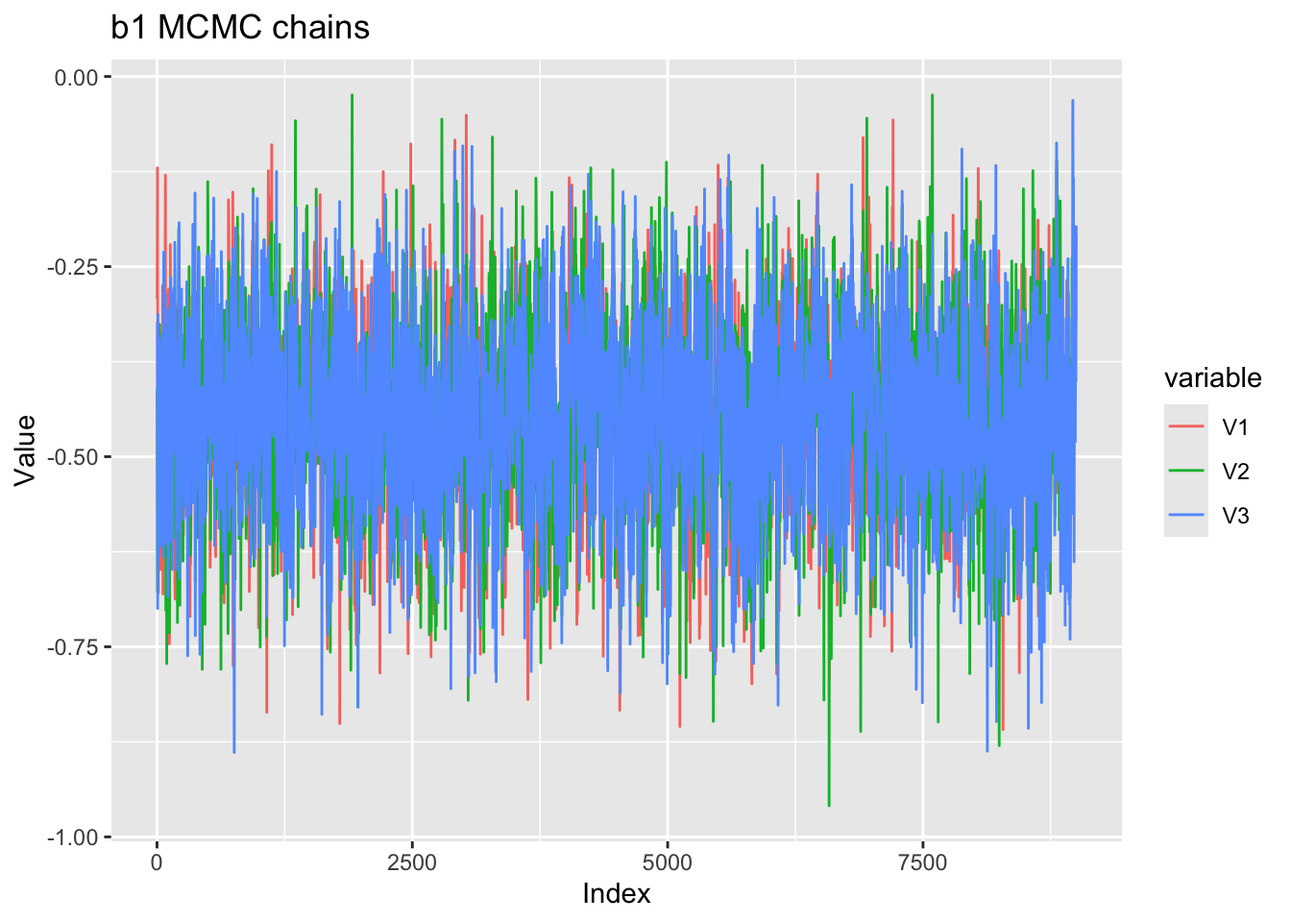
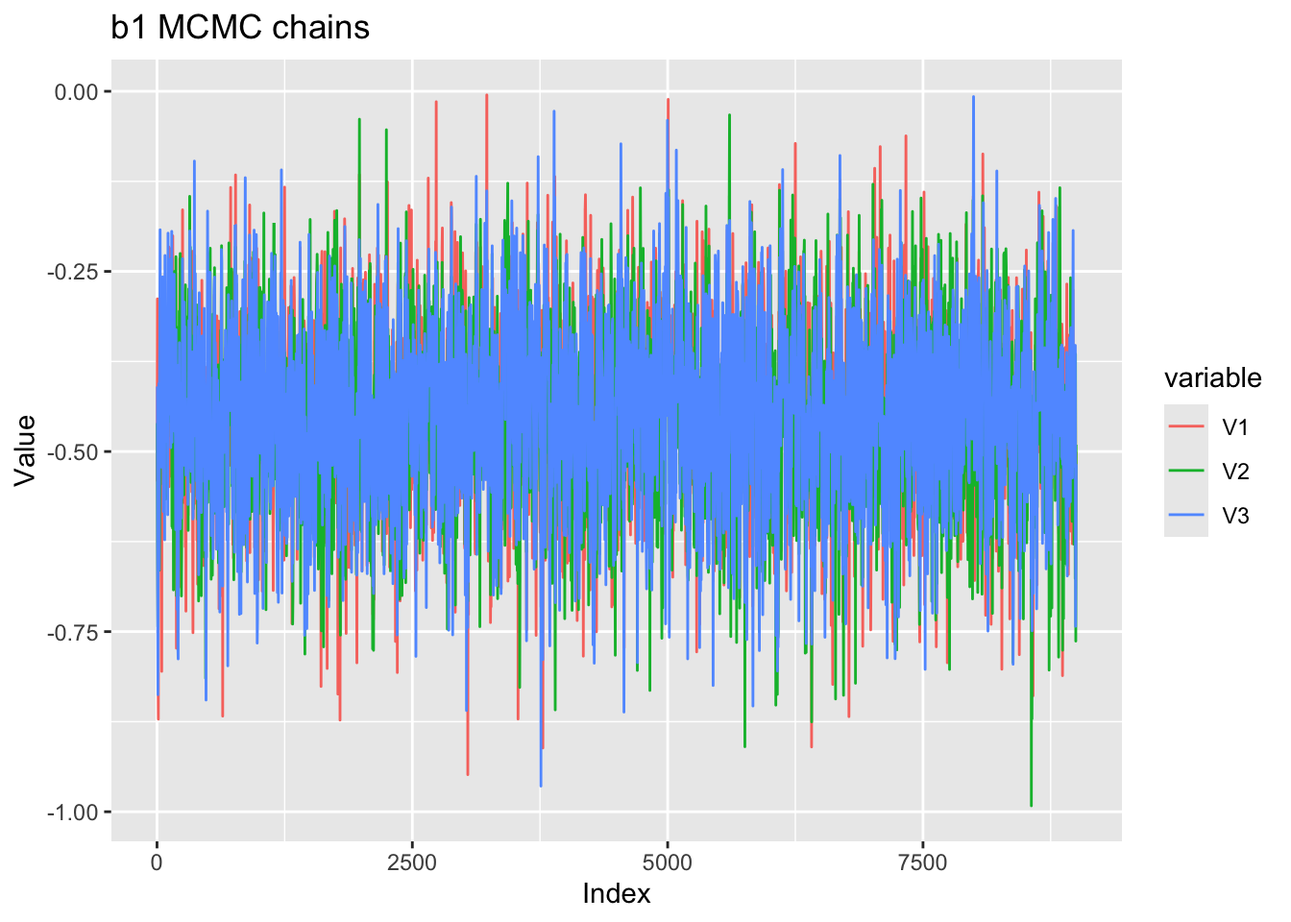
1122

diff --git a/docs/posts/IntroJuliaConnectoR.html b/docs/posts/IntroJuliaConnectoR.html
@@ -398,7 +398,7 @@ $ x4  &lt;dbl&gt; 1.063, 1.063, 1.063, 1.063, 1.063, 1.063, 0.104, -0.587, -2.00
 </details>
 <div class="cell-output cell-output-stdout">
 <pre><code>&lt;Julia object of type ExtendedRtIrtModeling.GibbsRtIrt&gt;
-ExtendedRtIrtModeling.GibbsRtIrt(ExtendedRtIrtModeling.SimConditions(300, 10, 4, 3000, 3, 1500, 1, 10, 0.5, 0.5), ExtendedRtIrtModeling.InputData4R([0 0 … 0 0; 0 0 … 0 0; … ; 0 0 … 1 0; 0 1 … 1 0], [-0.5 -0.5 … -0.5 -0.5; -0.5 -0.5 … -0.5 -0.5; … ; -0.5 -0.5 … 0.5 -0.5; -0.5 0.5 … 0.5 -0.5], [19.31727937946127 68.3745035485581 … 9.006981510434914 17.778680238058843; 46.89917102861648 54.38019363641357 … 12.085422811327593 56.71280369681312; … ; 27.194098966393437 42.182270397465956 … 25.584840292351714 119.46219960089533; 35.05786562994266 82.26946350420168 … 43.991656898689 24.754319523777408], [2.961 4.225 … 2.198 2.878; 3.848 3.996 … 2.492 4.038; … ; 3.303 3.742 … 3.242 4.783; 3.557 4.41 … 3.784 3.209], [0.0 -3.362 -0.2 1.063; 1.0 -0.081 2.347 1.063; … ; 1.0 -0.064 0.445 -0.318; 0.0 -0.449 -0.676 1.063]), Float64[], ExtendedRtIrtModeling.InputPara([0.16235512824287404 0.18055135609546943 … 0.3492408256483714 0.11597784196814588; 0.25025625437178695 0.10835972536772774 … 0.3202743885047583 0.07554055445997454; … ; 0.11753014817268771 0.8966169927064876 … 0.06283734951096978 0.05960120350407306; 0.13805622649021926 0.11629215918921716 … 0.16856989658584684 0.07150215575361361], [-1.9394855871895962; -1.3673791305201042; … ; -0.4652826392010018; -0.41109216671608634;;], [1.4659449834884102; 1.5171355856967619; … ; 1.117081944512797; 1.2382459193142332;;], [-0.19591533391551952; -0.7426854154931866; … ; -0.7553080051246679; 0.15222150851576732;;], [0.6352537638397066; 0.34894812224814076; … ; -0.3603576281594744; -0.23195192965067143;;], [3.306175488597978; 3.951899638025907; … ; 2.8909003435678935; 3.753776737854663;;], [0.3481262734782223; 0.2881839794077276; … ; 0.2784567100513588; 0.3001931398341319;;], Float64[], [0.0 0.0; -0.03829770108483886 0.178208628989446; … ; 0.19613580221262814 -0.032885840668015184; -0.07018827564408225 -0.018261723616547616], Float64[], [1.0174492346468456 -0.013020802783966823; -0.013020802783966823 0.13925799108793127]), ExtendedRtIrtModeling.OutputPost([-1.9130831721304113 0.6384789718312938 … -0.3636355184387329 0.16924614350190792; -2.5761948656574525 -0.5188814946026086 … -60.135113342664035 0.2922433070967829; … ; -2.9532664608373578 -0.7370585947022027 … -0.6432701905335532 0.18265143113973015; -2.028354044844679 -0.7094672818196492 … -0.7491230620984574 0.16100145566485585;;; -2.309826525770789 1.0090760512220447 … -69.70411939046066 1.158364764935774; -2.0415924664127596 -0.006730188845023705 … -69.68468214672296 -0.046043378487269436; … ; -2.8815636240558784 -1.3370053754570157 … -0.6810045865738172 -0.05703201817967604; -2.755482149682994 -1.4205094862785277 … -0.8216638332221514 0.35205319151891673;;; -3.564579888290525 0.13018743912139816 … -84.40784517254401 -0.1175901501011264; -2.4402182920036983 -1.1937257201579508 … -64.56447692015946 -0.05008449194057312; … ; -2.0249866987713716 -1.2577797031606262 … -0.5889843511151087 0.1419424242808915; -1.9394855871895962 -1.3673791305201042 … -0.7553080051246679 0.15222150851576732], [-0.04589032192891968 0.14310713799048927 … 1.509203427815696 1.460127550412485; 0.5401561517417781 0.21957948614267214 … 0.31758615133594925 0.2741128366576769; … ; 0.45106547985296014 0.03804630033017699 … 0.3314099907065481 0.23935211828230996; 0.5898659874230483 0.4465617507053668 … 0.3115453885076623 0.21103294415246532;;; 0.5625513032426966 0.1842455230603158 … 0.3928138459172414 0.34260917243430755; 0.5962619059523504 0.2447286812341474 … 0.2874827937940946 0.2636336168793558; … ; 0.5288101435150241 0.3440892801456695 … 0.3001474214825944 0.247639699946621; 0.2714131766393561 0.4116974957653279 … 0.2949605964575351 0.27477563433680013;;; 0.5447134643004774 0.12561770241814635 … 0.31643517897139106 0.26480642489644274; 0.565587417696131 0.31782846427641503 … 0.27796827219979314 0.25569338755411836; … ; 0.8716632943954037 0.2766548408939548 … 0.2871803432878741 0.2502746955243891; 0.6352537638397066 0.34894812224814076 … 0.2784567100513588 0.3001931398341319], [0.0 0.2271764909191659 … 0.0630377241703311 1.0795320753501887; 0.0 -0.13137140956749854 … -0.03445019185018542 0.1631787968180395; … ; 0.0 0.11831782850695353 … -0.02467476084372711 0.18008644162663284; 0.0 -0.15173760514155943 … -0.06758551791641307 0.18553004620197178;;; 0.0 0.027798664208510866 … 0.05825973278449536 0.3180298770021992; 0.0 -0.09733527323001978 … -0.016985842726239358 0.17948345349804132; … ; 0.0 0.056086526076579976 … -0.057979547653260625 0.16554355507516957; 0.0 -0.044419758878696085 … -0.042585588349441005 0.1645666049658436;;; 0.0 -0.006464948217179556 … 0.01973346388959193 0.1779470724687213; 0.0 -0.04833050205063964 … -0.07405981170013269 0.18108972215907285; … ; 0.0 -0.03050418977495822 … -0.037771801655278894 0.1438963786957279; 0.0 -0.03829770108483886 … -0.013020802783966823 0.13925799108793127], [-6514.916574145873; -4673.17363119729; … ; -4467.337338433093; -4491.282229347154;;; -5029.945651548114; -4646.151543102344; … ; -4507.976898595485; -4484.802477943669;;; -4774.119972585931; -4634.951720998296; … ; -4487.341888932805; -4501.905414007908], ExtendedRtIrtModeling.InputPara(Float64[], [-2.2965618633478506, -0.8743369709972325, -1.135792688369854, -1.299920894308992, -1.3095201246806576, -2.119062832494006, -1.5460766940530377, -0.8845164198142405, -1.392474652439669, -1.0525156460721767  …  -0.5496422662336328, -0.557684511905269, -0.28968714818519437, -0.7642103397379496, -0.4160240012714402, -0.6309310355658374, -0.8839360551467729, -0.7116255676071, -0.3755650959666923, -0.8288063047729597], [1.3923288547255621, 1.6654043101433063, 1.9004397128517432, 2.350894150889114, 1.1890173754644349, 1.7003944697805977, 1.9117772997627314, 0.8604661999436497, 1.41190515381263, 1.6554502285249029], [-0.45083538706766596, -0.8878419088605833, 0.008490588400030282, -0.029343016671800847, -0.17073350887298985, -0.695667048116863, -1.6903424800238915, -1.1432110797927515, -0.6661858887480627, 0.04266471778324491], [0.5105314294831872, 0.18696766241316087, -0.07934672070841743, 0.40407427991820943, 0.20389604361177022, 0.8005138159367575, 0.4826046559645829, 0.6305063008963736, 0.22903622340116445, -0.02449205210916162  …  -0.6122429750597529, -0.2889059796104715, -0.15303681987864978, -0.4530864272962539, -0.03699875693044017, -0.5694807734816779, -0.016626016850991115, 0.28868407688154946, -0.19220725747352652, -0.22267245249058124], [3.3100200509491446, 3.8858215431914447, 4.584515242212625, 3.8263989406679353, 3.036210252965825, 3.248418270072149, 2.9878360742181296, 3.7127766036667484, 2.8729308898521895, 3.7430426883791377], [0.37853542161261916, 0.3039044653995011, 0.29678482564071884, 0.34844864003083026, 0.333353575977551, 0.4799988010406811, 0.2655637012829562, 0.29448239037725915, 0.2966200389482421, 0.2516450785926899], Float64[], [0.0, -0.06428122725537999, 0.5326895501202278, 0.20999516516533193, -0.006933135304731751, 0.0, 0.1919405768332102, 0.0032732199931965744, -0.036166969332448416, -0.02136285577815166], Float64[], [0.9966692311131616, -0.04144550795288676, -0.04144550795288676, 0.17550528007844737])))</code></pre>
+ExtendedRtIrtModeling.GibbsRtIrt(ExtendedRtIrtModeling.SimConditions(300, 10, 4, 3000, 3, 1500, 1, 10, 0.5, 0.5), ExtendedRtIrtModeling.InputData4R([0 0 … 0 0; 0 0 … 0 0; … ; 0 0 … 1 0; 0 1 … 1 0], [-0.5 -0.5 … -0.5 -0.5; -0.5 -0.5 … -0.5 -0.5; … ; -0.5 -0.5 … 0.5 -0.5; -0.5 0.5 … 0.5 -0.5], [19.31727937946127 68.3745035485581 … 9.006981510434914 17.778680238058843; 46.89917102861648 54.38019363641357 … 12.085422811327593 56.71280369681312; … ; 27.194098966393437 42.182270397465956 … 25.584840292351714 119.46219960089533; 35.05786562994266 82.26946350420168 … 43.991656898689 24.754319523777408], [2.961 4.225 … 2.198 2.878; 3.848 3.996 … 2.492 4.038; … ; 3.303 3.742 … 3.242 4.783; 3.557 4.41 … 3.784 3.209], [0.0 -3.362 -0.2 1.063; 1.0 -0.081 2.347 1.063; … ; 1.0 -0.064 0.445 -0.318; 0.0 -0.449 -0.676 1.063]), Float64[], ExtendedRtIrtModeling.InputPara([0.03803954836290282 0.15232909667566663 … 0.05161322853812894 0.13813548640620224; 0.6820446079265877 0.34147419401485857 … 0.08950104948637522 0.14098614046303293; … ; 0.10597207519925943 0.1647379067865525 … 0.39929612168578055 0.07881275553602582; 0.029065140357117505 0.11420999068850912 … 0.067385411002555 0.08432507233276894], [-3.2940883047383913; -0.8556087208746063; … ; 0.2957471460780982; -0.5130925360110484;;], [1.1729970641986105; 1.5458803495092144; … ; 1.6853029639293666; 1.530409031452339;;], [-0.517568491848459; -0.982877174566527; … ; -0.7583810973883602; -0.09740730421271002;;], [0.5187822333228932; 0.17945796808241804; … ; -0.4089531330263851; -0.28036133076001346;;], [3.3393118348012587; 3.87644094752713; … ; 2.8577060562598415; 3.7101671096169406;;], [0.36835845733426814; 0.32471225592571945; … ; 0.2879305608202483; 0.2535185154875389;;], Float64[], [0.0 0.0; -0.13955836192391025 0.19017204916811675; … ; 0.19452561633168883 -0.02569275995793209; 0.008873056157746655 -0.020109568214501022], Float64[], [1.0320100623914066 -0.07785061758422016; -0.07785061758422016 0.16895129102317735]), ExtendedRtIrtModeling.OutputPost([-2.5316054308599174 -1.0201149676069194 … -0.5075576803546703 -0.08864269630953704; -2.385233298441571 -1.4283258309850775 … -1.4219131141778978 0.2129493136184259; … ; -1.9741175809894413 -1.0250130746899613 … -0.5718654341855209 -0.1284281480151264; -2.844235988213971 -1.316783874105525 … -0.6786711872540668 -0.05857460754134373;;; -4.6483512794741735 0.3493888705714854 … -2.4506544874705565 0.6788249924528524; -3.7301650282003234 -0.35206014753877 … -1.060147038895324 -0.022847830081273553; … ; -2.3228954038123826 -0.7633078075173486 … -0.5218305601114234 -0.006863193064532861; -2.947459210211141 -1.1136049934548102 … -0.7818335114896942 -0.07936515200090292;;; -2.8110340000021417 -0.03212862955989345 … -2.025504239319318 0.45657793306823946; -4.1596980425369825 -0.14333259949396085 … -1.1332579574632875 0.3222192608749193; … ; -2.9995248309035096 -0.5025283160730506 … -0.7183550769803037 0.0676513203886467; -3.2940883047383913 -0.8556087208746063 … -0.7583810973883602 -0.09740730421271002], [1.4408516602399948 0.3119398314847293 … 1.436388830030692 1.7594573686009332; 0.6485769988459371 0.09799817794512869 … 0.31841190001990965 0.24727987392394055; … ; 0.6627543140062743 0.062379143944078154 … 0.2865093185798355 0.24389872189259454; 0.44614964292947934 -0.0009854797366953515 … 0.28884633266179777 0.21660633195557716;;; 0.20771950271501474 0.07470008557255679 … 0.4103878498912844 0.3363959900787248; 0.4426062385974111 0.5151675445567098 … 0.29291788454958345 0.2503375597447657; … ; 0.7070645022178579 0.20368876114203885 … 0.28272533057375293 0.24136415837075093; 0.45753666379890207 -0.18874208624041255 … 0.2834510081524539 0.2551776999849949;;; 0.30915139077679943 0.11755077510470256 … 0.33693480204725546 0.2526349715282094; 0.5271674464554031 -0.03412047093349183 … 0.31415501362293397 0.23995328803270566; … ; 0.4020971899295065 0.0677768958301857 … 0.3122296334816429 0.27227850933927056; 0.5187822333228932 0.17945796808241804 … 0.2879305608202483 0.2535185154875389], [0.0 -0.0887285183553337 … -0.01884626579878293 1.1285784837010724; 0.0 -0.08011816664565659 … -0.04343663237172715 0.18452860531678966; … ; 0.0 0.008086425833789466 … -0.025520812462631465 0.1612415796308012; 0.0 -0.12264846253365731 … -0.07384019130048343 0.17262190728489224;;; 0.0 -0.03664858006607563 … 0.0067944616781861365 0.338624461155973; 0.0 -0.1073789503209682 … -0.029642765491720922 0.19165667155122298; … ; 0.0 0.043887021217047927 … -0.03532031809739464 0.17413726452088615; 0.0 -0.1643751390334616 … -0.010822072367220475 0.18541630144658308;;; 0.0 -0.08211729186350054 … -0.08333707459658027 0.17415795145027568; 0.0 -0.13250855065322767 … -0.08673313781096505 0.187742906364859; … ; 0.0 -0.10128227451428869 … -0.03748007560750125 0.19121942907428163; 0.0 -0.13955836192391025 … -0.07785061758422016 0.16895129102317735], [-6445.598553588707; -4656.228890248507; … ; -4456.902783934122; -4505.806270733834;;; -4920.580097790624; -4651.149283501899; … ; -4485.579809921432; -4486.097395433786;;; -4738.516081862697; -4563.873634836814; … ; -4488.181661060116; -4498.276381449872], ExtendedRtIrtModeling.InputPara(Float64[], [-2.3178527540742926, -0.8727691300728337, -1.1270941644815011, -1.314220325940113, -1.312310125131537, -2.1240213345575376, -1.536219741784194, -0.8795771064111, -1.4058283159119116, -1.0523714562500226  …  -0.5537072915566369, -0.546197426858273, -0.29753429086726474, -0.7788845545983953, -0.4288798781746426, -0.6379621032854847, -0.8723359959589986, -0.7208395955141799, -0.361997792920653, -0.8277817235912058], [1.3646887304206927, 1.6249134397666332, 1.8934917297683258, 2.3652619116146667, 1.18944805219959, 1.6927963067386411, 1.9296843928969347, 0.8667577372850178, 1.3957341191353294, 1.6386217111971437], [-0.44883650701461625, -0.9009311334699093, 0.006551607624680888, -0.031151287825124063, -0.17518461393355453, -0.6986473086575202, -1.6871943987780424, -1.1352908353580398, -0.669812431184789, 0.04696243181135186], [0.509589166741046, 0.1857693357346427, -0.07550905171544396, 0.40371837798105975, 0.2002234493228274, 0.8028492233370474, 0.48629288082779365, 0.6280950508585535, 0.22958288133607635, -0.023509851785120262  …  -0.6163152317061098, -0.29266789451650377, -0.14583684556223742, -0.4492481178106896, -0.03887259744200821, -0.5674806365619091, -0.012016840151132151, 0.2897716967247682, -0.18971397270938126, -0.2222280311361607], [3.3110772418218453, 3.886891015780442, 4.585028345763602, 3.826681898387007, 3.035741278162338, 3.2494618858904034, 2.989106232465927, 3.7133118321634933, 2.871836307215324, 3.744248102212496], [0.37849522314915657, 0.3038684647893873, 0.2969197289574867, 0.3476434750321475, 0.3346892263551741, 0.48005082463379584, 0.26467319279133117, 0.294736952213553, 0.2975538551713775, 0.25231757824913936], Float64[], [0.0, -0.06626064690505433, 0.5352570881253667, 0.20818335593211268, -0.007044876853338413, 0.0, 0.19162663035539299, 0.0034722578078704674, -0.0358442425489261, -0.02106863957469503], Float64[], [1.0021210968899932, -0.04248597908967541, -0.04248597908967541, 0.17550175200038612])))</code></pre>
 </div>
 <details class="code-fold">
 <summary>Code</summary>
@@ -411,39 +411,39 @@ ExtendedRtIrtModeling.GibbsRtIrt(ExtendedRtIrtModeling.SimConditions(300, 10, 4,
 │  Item │       a │       b │       λ │     σ²t │
 │ Int64 │ Float64 │ Float64 │ Float64 │ Float64 │
 ├───────┼─────────┼─────────┼─────────┼─────────┤
-│     1 │   1.392 │  -0.451 │   3.310 │   0.379 │
-│     2 │   1.665 │  -0.888 │   3.886 │   0.304 │
-│     3 │   1.900 │   0.008 │   4.585 │   0.297 │
-│     4 │   2.351 │  -0.029 │   3.826 │   0.348 │
-│     5 │   1.189 │  -0.171 │   3.036 │   0.333 │
-│     6 │   1.700 │  -0.696 │   3.248 │   0.480 │
-│     7 │   1.912 │  -1.690 │   2.988 │   0.266 │
-│     8 │   0.860 │  -1.143 │   3.713 │   0.294 │
-│     9 │   1.412 │  -0.666 │   2.873 │   0.297 │
-│    10 │   1.655 │   0.043 │   3.743 │   0.252 │
+│     1 │   1.365 │  -0.449 │   3.311 │   0.378 │
+│     2 │   1.625 │  -0.901 │   3.887 │   0.304 │
+│     3 │   1.893 │   0.007 │   4.585 │   0.297 │
+│     4 │   2.365 │  -0.031 │   3.827 │   0.348 │
+│     5 │   1.189 │  -0.175 │   3.036 │   0.335 │
+│     6 │   1.693 │  -0.699 │   3.249 │   0.480 │
+│     7 │   1.930 │  -1.687 │   2.989 │   0.265 │
+│     8 │   0.867 │  -1.135 │   3.713 │   0.295 │
+│     9 │   1.396 │  -0.670 │   2.872 │   0.298 │
+│    10 │   1.639 │   0.047 │   3.744 │   0.252 │
 └───────┴─────────┴─────────┴─────────┴─────────┘
 2) Covariance of Person Parameters.
 ┌──────┬────────┬────────┐
 │ Coef │      θ │      ζ │
 ├──────┼────────┼────────┤
-│    θ │  0.997 │ -0.041 │
-│    ζ │ -0.041 │  0.176 │
+│    θ │  1.002 │ -0.042 │
+│    ζ │ -0.042 │  0.176 │
 └──────┴────────┴────────┘
 3) Regression Coefficients.
 ┌──────┬────────┬────────┐
 │ Coef │      θ │      ζ │
 ├──────┼────────┼────────┤
 │   β0 │  0.000 │  0.000 │
-│   β1 │ -0.064 │  0.192 │
-│   β2 │  0.533 │  0.003 │
-│   β3 │  0.210 │ -0.036 │
+│   β1 │ -0.066 │  0.192 │
+│   β2 │  0.535 │  0.003 │
+│   β3 │  0.208 │ -0.036 │
 │   β4 │ -0.007 │ -0.021 │
 └──────┴────────┴────────┘
 4) Criterion.
 ┌──────────┬──────────┐
 │ Deviance │      DIC │
 ├──────────┼──────────┤
-│ 8959.374 │ 9607.001 │
+│ 8960.496 │ 9606.992 │
 └──────────┴──────────┘</code></pre>
 </div>
 <details class="code-fold">
@@ -457,52 +457,52 @@ ExtendedRtIrtModeling.GibbsRtIrt(ExtendedRtIrtModeling.SimConditions(300, 10, 4,
 │ parameters │    mean │     std │      ess │    rhat │     q05 │     q95 │    Sig │
 │     Symbol │ Float64 │ Float64 │  Float64 │ Float64 │ Float64 │ Float64 │ String │
 ├────────────┼─────────┼─────────┼──────────┼─────────┼─────────┼─────────┼────────┤
-│         a1 │   1.392 │   0.215 │ 1945.434 │   1.001 │   1.057 │   1.762 │      * │
-│         a2 │   1.665 │   0.283 │ 1224.407 │   1.001 │   1.247 │   2.161 │      * │
-│         a3 │   1.900 │   0.292 │ 1513.209 │   1.001 │   1.452 │   2.407 │      * │
-│         a4 │   2.351 │   0.370 │ 1168.797 │   0.999 │   1.795 │   3.020 │      * │
-│         a5 │   1.189 │   0.180 │ 2627.287 │   1.001 │   0.899 │   1.500 │      * │
-│         a6 │   1.700 │   0.281 │ 1246.751 │   1.000 │   1.271 │   2.193 │      * │
-│         a7 │   1.912 │   0.407 │  390.376 │   1.000 │   1.278 │   2.649 │      * │
-│         a8 │   0.860 │   0.170 │ 1729.750 │   0.999 │   0.590 │   1.144 │      * │
-│         a9 │   1.412 │   0.221 │ 1632.180 │   1.000 │   1.046 │   1.778 │      * │
-│        a10 │   1.655 │   0.244 │ 1690.462 │   1.005 │   1.288 │   2.094 │      * │
-│         b1 │  -0.451 │   0.124 │ 1914.717 │   1.000 │  -0.656 │  -0.252 │      * │
-│         b2 │  -0.888 │   0.130 │ 1482.428 │   1.000 │  -1.110 │  -0.686 │      * │
-│         b3 │   0.008 │   0.105 │ 1764.269 │   1.000 │  -0.162 │   0.183 │        │
-│         b4 │  -0.029 │   0.098 │ 1761.759 │   1.000 │  -0.189 │   0.134 │        │
-│         b5 │  -0.171 │   0.131 │ 2405.333 │   1.000 │  -0.387 │   0.042 │        │
-│         b6 │  -0.696 │   0.119 │ 1577.804 │   1.000 │  -0.898 │  -0.504 │      * │
-│         b7 │  -1.690 │   0.203 │  476.598 │   0.999 │  -2.054 │  -1.395 │      * │
-│         b8 │  -1.143 │   0.254 │ 1722.613 │   1.000 │  -1.604 │  -0.796 │      * │
-│         b9 │  -0.666 │   0.128 │ 2147.480 │   1.000 │  -0.880 │  -0.465 │      * │
-│        b10 │   0.043 │   0.114 │ 1947.629 │   0.999 │  -0.145 │   0.232 │        │
+│         a1 │   1.365 │   0.206 │ 2342.603 │   1.002 │   1.035 │   1.722 │      * │
+│         a2 │   1.625 │   0.280 │ 1002.293 │   0.999 │   1.217 │   2.111 │      * │
+│         a3 │   1.893 │   0.285 │ 1781.794 │   1.000 │   1.445 │   2.378 │      * │
+│         a4 │   2.365 │   0.409 │  667.978 │   1.004 │   1.789 │   3.120 │      * │
+│         a5 │   1.189 │   0.188 │ 2477.290 │   1.000 │   0.891 │   1.499 │      * │
+│         a6 │   1.693 │   0.288 │ 1083.316 │   1.003 │   1.274 │   2.226 │      * │
+│         a7 │   1.930 │   0.415 │  437.238 │   1.000 │   1.318 │   2.666 │      * │
+│         a8 │   0.867 │   0.166 │ 2222.551 │   0.999 │   0.606 │   1.158 │      * │
+│         a9 │   1.396 │   0.231 │ 1552.240 │   1.000 │   1.053 │   1.803 │      * │
+│        a10 │   1.639 │   0.246 │ 1767.400 │   1.003 │   1.253 │   2.063 │      * │
+│         b1 │  -0.449 │   0.126 │ 2041.894 │   1.000 │  -0.656 │  -0.249 │      * │
+│         b2 │  -0.901 │   0.133 │ 1252.257 │   1.000 │  -1.129 │  -0.694 │      * │
+│         b3 │   0.007 │   0.105 │ 1805.927 │   0.999 │  -0.165 │   0.184 │        │
+│         b4 │  -0.031 │   0.098 │ 1509.874 │   1.000 │  -0.192 │   0.131 │        │
+│         b5 │  -0.175 │   0.131 │ 2126.633 │   1.000 │  -0.394 │   0.035 │        │
+│         b6 │  -0.699 │   0.120 │ 1534.142 │   1.000 │  -0.901 │  -0.510 │      * │
+│         b7 │  -1.687 │   0.204 │  572.695 │   1.000 │  -2.031 │  -1.393 │      * │
+│         b8 │  -1.135 │   0.234 │ 2535.208 │   0.999 │  -1.546 │  -0.808 │      * │
+│         b9 │  -0.670 │   0.131 │ 1621.498 │   1.002 │  -0.892 │  -0.458 │      * │
+│        b10 │   0.047 │   0.113 │ 1964.482 │   1.001 │  -0.135 │   0.232 │        │
 └────────────┴─────────┴─────────┴──────────┴─────────┴─────────┴─────────┴────────┘
 2) Response Time Model.
 ┌────────────┬─────────┬─────────┬──────────┬─────────┬─────────┬─────────┬────────┐
 │ parameters │    mean │     std │      ess │    rhat │     q05 │     q95 │    Sig │
 │     Symbol │ Float64 │ Float64 │  Float64 │ Float64 │ Float64 │ Float64 │ String │
 ├────────────┼─────────┼─────────┼──────────┼─────────┼─────────┼─────────┼────────┤
-│         λ1 │   3.310 │   0.044 │ 1871.532 │   1.000 │   3.238 │   3.384 │      * │
-│         λ2 │   3.886 │   0.041 │ 1794.119 │   1.000 │   3.817 │   3.954 │      * │
-│         λ3 │   4.585 │   0.041 │ 1757.448 │   0.999 │   4.516 │   4.653 │      * │
-│         λ4 │   3.826 │   0.043 │ 1786.553 │   1.000 │   3.756 │   3.896 │      * │
-│         λ5 │   3.036 │   0.042 │ 1764.103 │   1.000 │   2.969 │   3.105 │      * │
-│         λ6 │   3.248 │   0.048 │ 1842.989 │   1.000 │   3.171 │   3.327 │      * │
-│         λ7 │   2.988 │   0.039 │ 1715.494 │   1.000 │   2.924 │   3.054 │      * │
-│         λ8 │   3.713 │   0.041 │ 1732.453 │   1.000 │   3.645 │   3.780 │      * │
-│         λ9 │   2.873 │   0.041 │ 1723.637 │   1.000 │   2.806 │   2.941 │      * │
-│        λ10 │   3.743 │   0.039 │ 1623.583 │   1.000 │   3.680 │   3.808 │      * │
-│       σ²t1 │   0.379 │   0.035 │ 4341.160 │   1.000 │   0.326 │   0.440 │      * │
-│       σ²t2 │   0.304 │   0.028 │ 4353.910 │   1.000 │   0.261 │   0.351 │      * │
-│       σ²t3 │   0.297 │   0.027 │ 4508.439 │   1.000 │   0.254 │   0.344 │      * │
-│       σ²t4 │   0.348 │   0.031 │ 4176.080 │   1.000 │   0.301 │   0.400 │      * │
-│       σ²t5 │   0.333 │   0.030 │ 4612.968 │   1.000 │   0.288 │   0.386 │      * │
-│       σ²t6 │   0.480 │   0.043 │ 4534.513 │   1.000 │   0.414 │   0.555 │      * │
-│       σ²t7 │   0.266 │   0.025 │ 4265.130 │   1.000 │   0.227 │   0.308 │      * │
-│       σ²t8 │   0.294 │   0.027 │ 4497.298 │   1.000 │   0.253 │   0.341 │      * │
-│       σ²t9 │   0.297 │   0.027 │ 4663.724 │   1.000 │   0.255 │   0.342 │      * │
-│      σ²t10 │   0.252 │   0.023 │ 4531.827 │   1.000 │   0.215 │   0.291 │      * │
+│         λ1 │   3.311 │   0.043 │ 2245.581 │   1.000 │   3.241 │   3.383 │      * │
+│         λ2 │   3.887 │   0.039 │ 2229.885 │   1.001 │   3.821 │   3.950 │      * │
+│         λ3 │   4.585 │   0.040 │ 2065.252 │   1.001 │   4.518 │   4.649 │      * │
+│         λ4 │   3.827 │   0.042 │ 2276.559 │   1.001 │   3.757 │   3.895 │      * │
+│         λ5 │   3.036 │   0.042 │ 2077.418 │   1.002 │   2.966 │   3.106 │      * │
+│         λ6 │   3.249 │   0.047 │ 2262.640 │   1.000 │   3.173 │   3.327 │      * │
+│         λ7 │   2.989 │   0.038 │ 2005.202 │   1.001 │   2.926 │   3.051 │      * │
+│         λ8 │   3.713 │   0.039 │ 2132.332 │   1.000 │   3.648 │   3.777 │      * │
+│         λ9 │   2.872 │   0.040 │ 2067.979 │   1.000 │   2.806 │   2.936 │      * │
+│        λ10 │   3.744 │   0.037 │ 1937.055 │   1.001 │   3.685 │   3.806 │      * │
+│       σ²t1 │   0.378 │   0.033 │ 4312.348 │   1.000 │   0.326 │   0.437 │      * │
+│       σ²t2 │   0.304 │   0.027 │ 4453.444 │   1.000 │   0.261 │   0.352 │      * │
+│       σ²t3 │   0.297 │   0.027 │ 4489.086 │   1.000 │   0.255 │   0.345 │      * │
+│       σ²t4 │   0.348 │   0.031 │ 4547.821 │   1.000 │   0.299 │   0.403 │      * │
+│       σ²t5 │   0.335 │   0.030 │ 4006.528 │   1.000 │   0.288 │   0.386 │      * │
+│       σ²t6 │   0.480 │   0.042 │ 4358.406 │   1.001 │   0.416 │   0.552 │      * │
+│       σ²t7 │   0.265 │   0.024 │ 4278.401 │   1.000 │   0.227 │   0.306 │      * │
+│       σ²t8 │   0.295 │   0.027 │ 4373.160 │   1.000 │   0.253 │   0.342 │      * │
+│       σ²t9 │   0.298 │   0.026 │ 4630.517 │   1.000 │   0.257 │   0.344 │      * │
+│      σ²t10 │   0.252 │   0.023 │ 4613.353 │   1.000 │   0.216 │   0.292 │      * │
 └────────────┴─────────┴─────────┴──────────┴─────────┴─────────┴─────────┴────────┘
 3) Structural Model.
 ┌────────────┬─────────┬─────────┬──────────┬─────────┬─────────┬─────────┬────────┐
@@ -510,19 +510,19 @@ ExtendedRtIrtModeling.GibbsRtIrt(ExtendedRtIrtModeling.SimConditions(300, 10, 4,
 │     Symbol │ Float64 │ Float64 │  Float64 │ Float64 │ Float64 │ Float64 │ String │
 ├────────────┼─────────┼─────────┼──────────┼─────────┼─────────┼─────────┼────────┤
 │     β[0,1] │   0.000 │   0.000 │      NaN │     NaN │   0.000 │   0.000 │      * │
-│     β[1,1] │  -0.064 │   0.068 │ 2828.265 │   1.004 │  -0.176 │   0.046 │        │
-│     β[2,1] │   0.533 │   0.041 │ 1687.438 │   1.001 │   0.466 │   0.601 │      * │
-│     β[3,1] │   0.210 │   0.036 │ 2434.416 │   0.999 │   0.152 │   0.271 │      * │
-│     β[4,1] │  -0.007 │   0.031 │ 3549.816 │   1.000 │  -0.059 │   0.044 │        │
+│     β[1,1] │  -0.066 │   0.066 │ 3169.522 │   1.000 │  -0.176 │   0.039 │        │
+│     β[2,1] │   0.535 │   0.041 │ 1605.987 │   1.000 │   0.470 │   0.604 │      * │
+│     β[3,1] │   0.208 │   0.035 │ 2846.589 │   1.000 │   0.153 │   0.267 │      * │
+│     β[4,1] │  -0.007 │   0.031 │ 3443.779 │   1.001 │  -0.058 │   0.043 │        │
 │     β[0,2] │   0.000 │   0.000 │      NaN │     NaN │   0.000 │   0.000 │      * │
-│     β[1,2] │   0.192 │   0.020 │ 4551.039 │   1.000 │   0.160 │   0.224 │      * │
-│     β[2,2] │   0.003 │   0.009 │ 4317.254 │   0.999 │  -0.012 │   0.019 │        │
-│     β[3,2] │  -0.036 │   0.010 │ 4466.809 │   1.000 │  -0.052 │  -0.020 │      * │
-│     β[4,2] │  -0.021 │   0.010 │ 4619.634 │   1.000 │  -0.037 │  -0.005 │      * │
-│     Σ[1,1] │   0.997 │   0.115 │ 2660.074 │   1.000 │   0.821 │   1.195 │      * │
-│     Σ[1,2] │  -0.041 │   0.028 │ 4334.186 │   1.001 │  -0.088 │   0.004 │        │
-│     Σ[2,1] │  -0.041 │   0.028 │ 4334.186 │   1.001 │  -0.088 │   0.004 │        │
-│     Σ[2,2] │   0.176 │   0.017 │ 3878.583 │   1.000 │   0.149 │   0.204 │      * │
+│     β[1,2] │   0.192 │   0.020 │ 4490.908 │   1.000 │   0.159 │   0.224 │      * │
+│     β[2,2] │   0.003 │   0.010 │ 3946.057 │   1.000 │  -0.013 │   0.019 │        │
+│     β[3,2] │  -0.036 │   0.010 │ 4445.270 │   1.000 │  -0.052 │  -0.020 │      * │
+│     β[4,2] │  -0.021 │   0.010 │ 4444.982 │   0.999 │  -0.037 │  -0.005 │      * │
+│     Σ[1,1] │   1.002 │   0.115 │ 2450.285 │   1.000 │   0.827 │   1.206 │      * │
+│     Σ[1,2] │  -0.042 │   0.029 │ 4313.151 │   1.000 │  -0.089 │   0.005 │        │
+│     Σ[2,1] │  -0.042 │   0.029 │ 4313.151 │   1.000 │  -0.089 │   0.005 │        │
+│     Σ[2,2] │   0.176 │   0.017 │ 4028.813 │   1.000 │   0.150 │   0.204 │      * │
 └────────────┴─────────┴─────────┴──────────┴─────────┴─────────┴─────────┴────────┘</code></pre>
 </div>
 </div>
@@ -535,7 +535,7 @@ ExtendedRtIrtModeling.GibbsRtIrt(ExtendedRtIrtModeling.SimConditions(300, 10, 4,
 <span id="cb21-3"><a href="#cb21-3" aria-hidden="true" tabindex="-1"></a><span class="fu">Sys.time</span>() <span class="sc">-</span> time</span></code><button title="Copy to Clipboard" class="code-copy-button"><i class="bi"></i></button></pre></div>
 </details>
 <div class="cell-output cell-output-stdout">
-<pre><code>Time difference of 2.977953 mins</code></pre>
+<pre><code>Time difference of 2.703941 mins</code></pre>
 </div>
 <details class="code-fold">
 <summary>Code</summary>

diff --git a/docs/notes.html b/docs/notes.html
@@ -239,7 +239,7 @@ window.Quarto = {
     </div>
 </div>
 <div class="list grid quarto-listing-cols-3">
-<div class="g-col-1" data-index="0" data-listing-date-sort="1731945600000" data-listing-file-modified-sort="1732192422825" data-listing-date-modified-sort="NaN" data-listing-reading-time-sort="3" data-listing-word-count-sort="478">
+<div class="g-col-1" data-index="0" data-listing-date-sort="1731945600000" data-listing-file-modified-sort="1732273970937" data-listing-date-modified-sort="NaN" data-listing-reading-time-sort="3" data-listing-word-count-sort="480">
 <a href="./posts/IntroJuliaConnectoR.html" class="quarto-grid-link">
 <div class="quarto-grid-item card h-100 card-left">
 <p class="card-img-top"><img src="posts/IntroJuliaConnectoR_files/figure-html/unnamed-chunk-3-1.png" style="height: 150px;"  class="thumbnail-image card-img"/></p>
